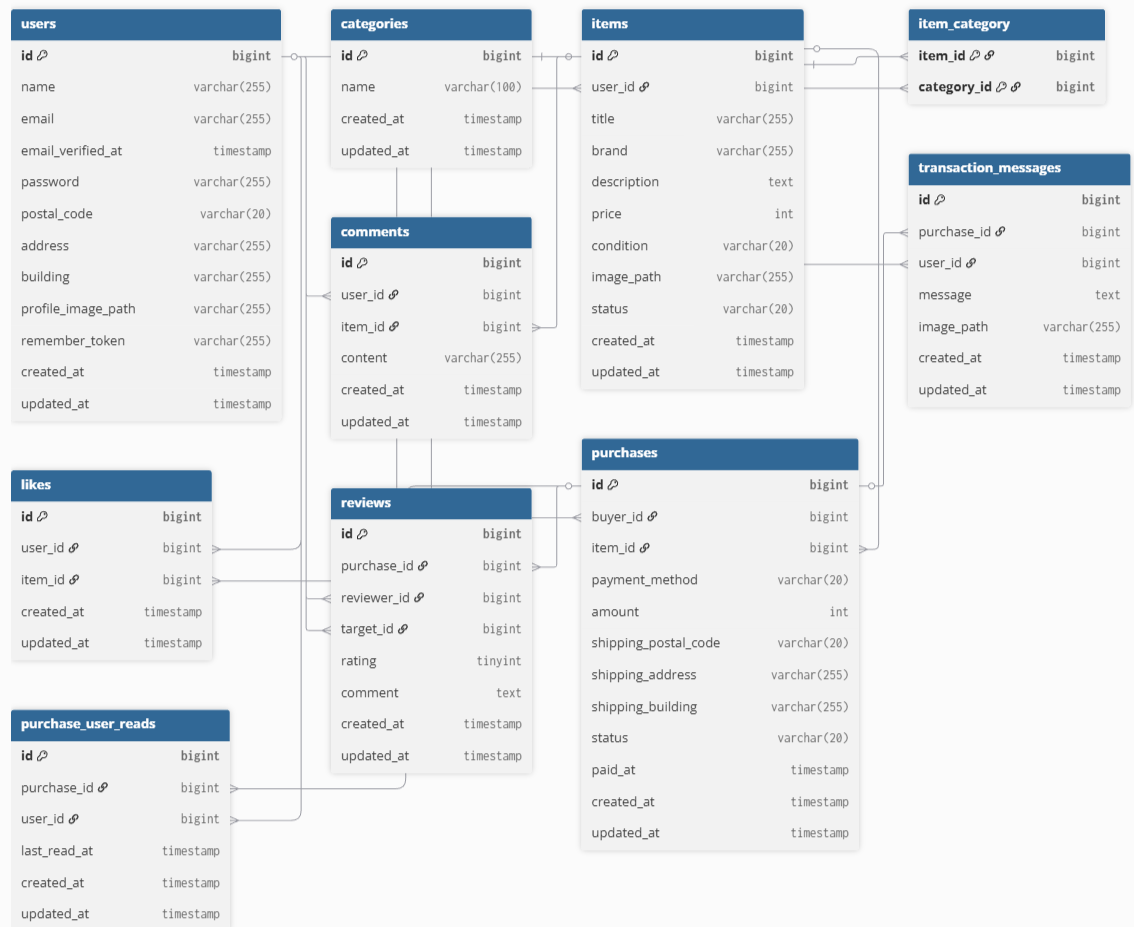
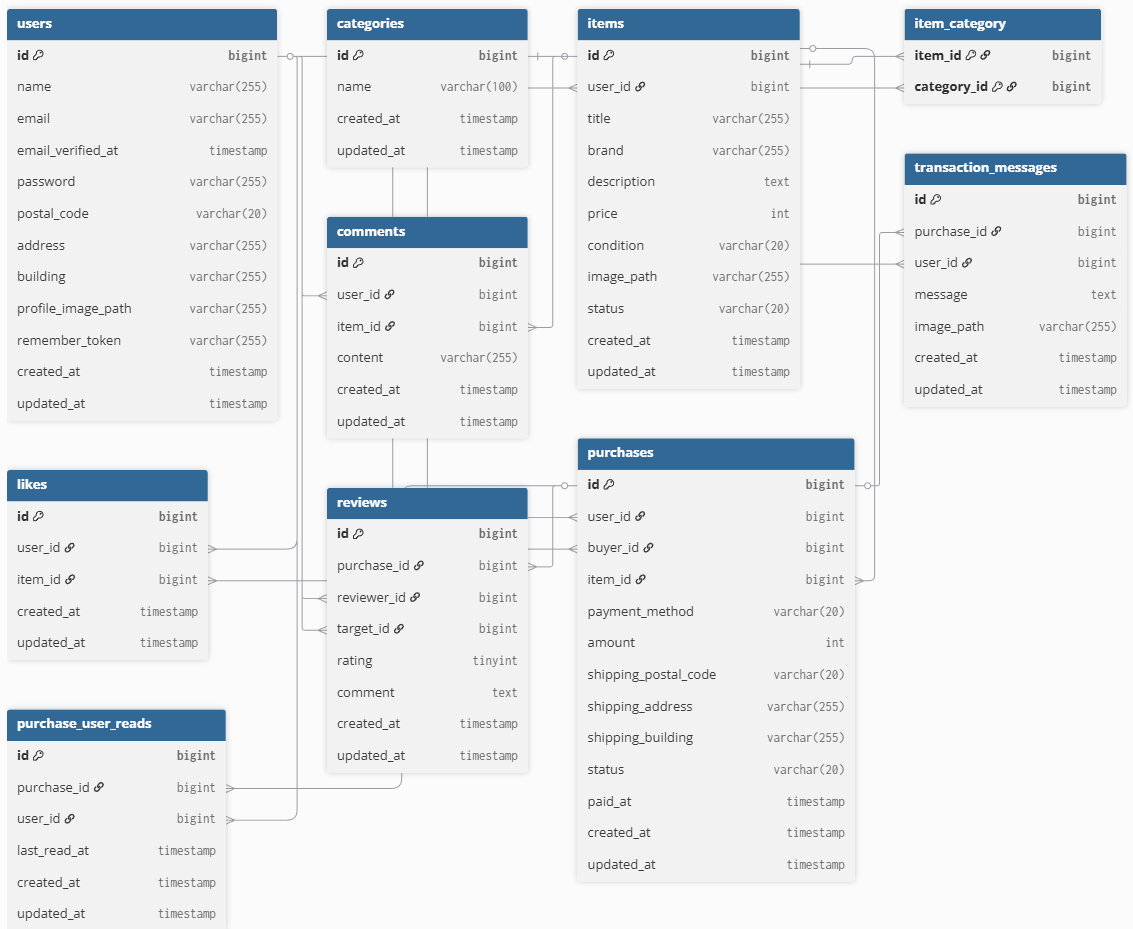
本番提出用の最終コミット

diff --git a/src/database/migrations/2025_08_18_081836_create_purchases_table.php b/src/database/migrations/2025_08_18_081836_create_purchases_table.php
@@ -10,6 +10,11 @@ return new class extends Migration {
         Schema::create('purchases', function (Blueprint $table) {
             $table->id();
 
+            // 出品者
+            $table->foreignId('user_id')
+                ->constrained('users')
+                ->onDelete('cascade');
+
             // 購入者
             $table->foreignId('buyer_id')
                 ->constrained('users')

diff --git a/README.md b/README.md
@@ -17,16 +17,20 @@
 3. cp .env.example .env
 4. .env を以下に修正：
 
-DB_HOST=mysql  
-DB_PORT=3306  
-DB_DATABASE=laravel_db  
-DB_USERNAME=laravel_user  
-DB_PASSWORD=laravel_pass  
+DB_CONNECTION=mysql
+DB_HOST=mysql
+DB_PORT=3306
+DB_DATABASE=laravel_db
+DB_USERNAME=laravel_user
+DB_PASSWORD=laravel_pass
 
 5. php artisan key:generate  
 6. php artisan migrate:fresh --seed  
 7. php artisan storage:link  
 
+8. 本リポジトリに含まれる .env.example の Stripe API キーは ダミー値 です。
+ご自身の環境で動作確認を行う場合は、Stripe ダッシュボードで発行される
+テスト用 API キー（Publishable key / Secret key） を .env に設定してください。
 ---
 
 ## 初期データ（ダミーデータ）
@@ -144,6 +148,7 @@ DB_PASSWORD=laravel_pass
 | カラム名 | 型 | PK | UNIQUE | NOT NULL | FK |
 |---------|----|----|--------|----------|----|
 | id | bigint | ○ | | ○ | |
+| user_id | bigint | | | ○ | ○ users.id |
 | buyer_id | bigint | | | ○ | ○ users.id |
 | item_id | bigint | | | ○ | ○ items.id |
 | payment_method | varchar(20) | | | ○ | |
